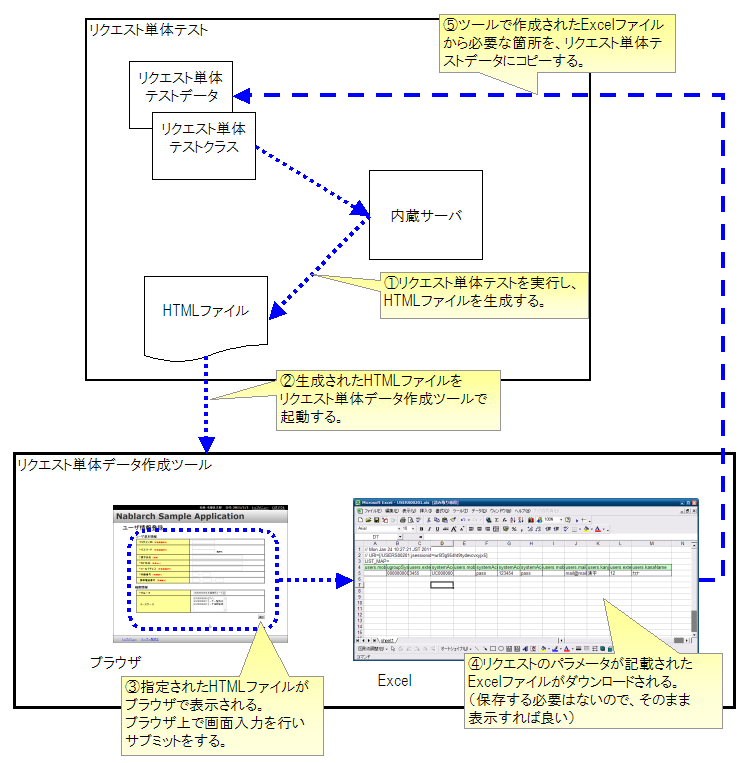
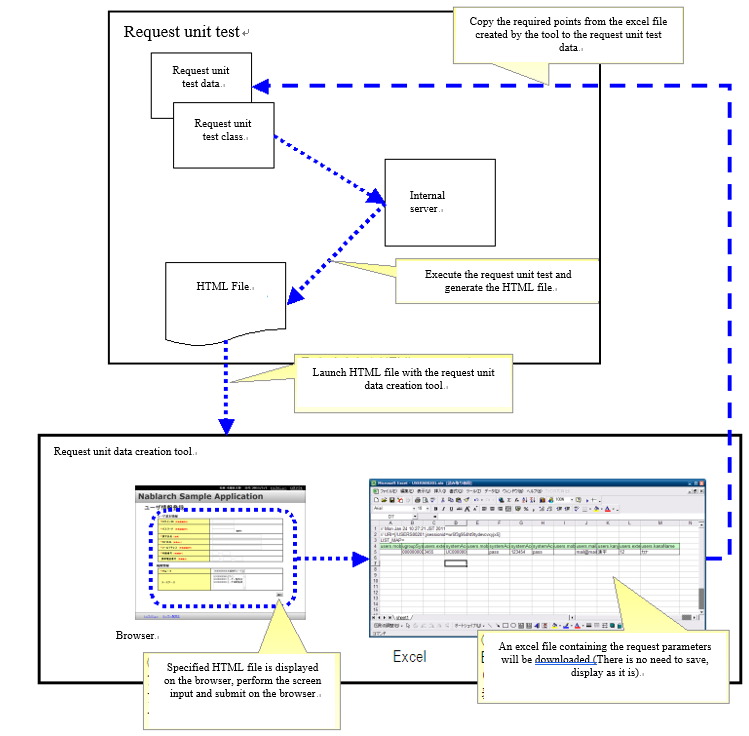
01_HttpDumpToolを英訳

Changed region(s): [[0.0, 0.0, 1.0, 1.0], [0.3997, 0.2188, 0.4612, 0.25]]

diff --git a/en/development_tools/testing_framework/guide/development_guide/08_TestTools/01_HttpDumpTool/01_HttpDumpTool.rst b/en/development_tools/testing_framework/guide/development_guide/08_TestTools/01_HttpDumpTool/01_HttpDumpTool.rst
@@ -1,93 +1,83 @@
 .. _`http_dump_tool`:
 
 ======================================
-リクエスト単体データ作成ツール
+Request Unit Data Creation Tool
 ======================================
 
-概要
-====
-
-リクエスト単体テスト(ウェブアプリケーション)では、HTMLからのリクエストパラメータにあるキーと値をテストデータとして作成する必要がある\ [*]_ 。
-このリクエストパラメータ作成を人手で実施すると、リクエストパラメータ名（form内のname属性）を\
-写し間違える恐れがある。特に、登録画面などパラメータ数が多い画面ではその可能性が高くなる。
-
-このような人手によるミスを解消するため、リクエスト単体テストで生成されたHTMLを使用して、\
-次画面へのリクエストパラメータを作成できるツールを提供する。
-
-
- .. [*]
-  リクエストパラメータのテストデータ記述方法については、\ :doc:`../../05_UnitTestGuide/02_RequestUnitTest/index`\ （特に「\  :ref:`request_test_req_params`\ 」の項 ）を参照
-
-
-
-特徴
-====
-
-本ツールでは、リクエスト単体テストで生成されたHTMLをブラウザで操作することで、
-次画面へのリクエストパラメータをExcel形式で取得できるようになっている。
-ウェブアプリケーションを操作するような感覚で直感的にテストデータが作成できる。
-
-
-使用方法
+Summary
 ========
 
-下記の図に沿って、本ツールの使用方法を説明する。
+The keys and values in the request parameters from HTML are required to be created as test data for the request unit test (web application). \ [*]_ 。
+If this request parameter is created manually, the name of the request parameter (name attribute in the form) may be copied incorrectly. 
+This possibility is more likely in screens with many parameters such as a registration screen.
+
+To eliminate such manual errors, a tool that can create request parameters for the next screen using HTML generated by the request unit test is provided.
+
+ .. [*]
+  For information on how to write request parameter test data, see \ :doc:`../../05_UnitTestGuide/02_RequestUnitTest/index`\（Especially, \  :ref:`request_test_req_params`\）\.
+
+
+
+Features
+==========
+
+The tool can be used to acquire the request parameters for the next screen in Excel format 
+by operating the HTML generated by the request unit test with a browser. 
+Test data can be created intuitively as if operating on a web application.
+
+
+How to Use
+==============
+
+How to use the tool is explained in reference to the following figure.
 
 
 .. image:: ./_image/requestDumpToolAbstract.png
    :scale: 80
 
-前提条件
+Prerequisites
 --------------------
 
-* 開発環境構築ガイドに従って開発環境を構築済みであること。
-* :doc:`02_SetUpHttpDumpTool`\ の\ :ref:`http_dump_tool_prerequisite`\ 参照
+* The development environment must have been built according to the development environment build guide.
+* See \ :ref:`http_dump_tool_prerequisite`\  of :doc:`02_SetUpHttpDumpTool`\.
 
+HTML generation for input
+------------------------------
 
-入力となるHTML生成
---------------------
+Execute the request unit test and generate a HTML file.
 
-リクエスト単体テストを実行し、HTMLファイルを生成する。
+Only the data for the request unit test of the initial screen display needs to be prepared manually. 
+Since most initial screen display requests (for example, a simple screen transition from a menu) do not include a request parameter, 
+usually an empty request parameter is required to be created.
 
-
-初期画面表示のリクエスト単体テスト用データだけは、手動で用意する必要がある。
-初期画面表示リクエスト（例えば、メニューからの単純な画面遷移）には
-リクエストパラメータが含まれていないことがほとんどであるので、
-通常は空のリクエストパラメータを作成すればよい。
-
-
-
-
-ツール起動
+Tool launch
 ------------
 
-Eclipse上からHTMLファイルを右クリックし、ツールを起動する。\
-（\ :ref:`howToExecuteFromEclipse` を参照）
-
+Right click on the HTML file from Eclipse and launch the tool. 
+See (\ :ref:`howToExecuteFromEclipse` )
 
 .. tip::
 
- Windows上で本ツールを起動するとコマンドプロンプトが現れるが、これはツール内部で使用される内蔵サーバのプロセスである。本ツールを使用する間はこのコマンドプロンプトは実行したままにしておくとよい。ツール起動時に、既にサーバが起動されている場合はサーバ起動がスキップされるので、２回目以降のツール起動が速くなる。誤ってこのコマンドプロンプトを落としてしまっても、次回のツール起動時に自動的に起動されるので問題はない。
+ When this tool is launched on Windows, a command prompt appears, which is a process of the internal server used within the tool.Keep the command prompt running while using this tool.While launching the tool if the server is already been started then the server launch is skipped, hence the second and subsequent tool starts are faster.If the command prompt is accidentally closed, it will automatically start when the tool is launched the next time.
 
 
-
-データ入力
+Data entry
 ------------
-HTMLファイルがブラウザで起動されるので、ブラウザ上で画面入力を行いサブミットを実行する。
+Since the HTML file is launched in the browser, enter data on the browser screen and execute submit.
 
 
-Excelダウンロード
+Excel download
 -------------------
 
-サブミットで発生したHTTPリクエストがExcelファイルに記載された状態で
-ダウンロードできる。Excelファイルをローカル上に保存する必要はないので、
-ブラウザから直接ExcelやOpenOfficeで起動すればよい。
+The HTTP request generated by the submit can be downloaded as an Excel file. 
+Since the excel file is not required to be saved locally, 
+it can be launched in Excel or OpenOffice directly from the browser.
 
 
-データ編集
-------------
+Data compilation
+--------------------
 
-ダウンロードしたExcelファイルに、HTTPリクエストパラメータのデータが記載されている。
-そのデータをリクエスト単体テストのテストデータにコピーする。
+The downloaded Excel file contains the data for the HTTP request parameters. 
+Copy the data to the test data of the request unit test.
 
 

diff --git a/en/development_tools/testing_framework/guide/development_guide/08_TestTools/01_HttpDumpTool/02_SetUpHttpDumpTool.rst b/en/development_tools/testing_framework/guide/development_guide/08_TestTools/01_HttpDumpTool/02_SetUpHttpDumpTool.rst
@@ -1,75 +1,75 @@
-=================================================
-リクエスト単体データ作成ツール インストールガイド
-=================================================
+========================================================
+Request Unit Data Creation Tool Installation Guide
+========================================================
 
-:doc:`index`\ のインストール方法について説明する。
+This section describes how to install the :doc:`index`\.
 
 .. _http_dump_tool_prerequisite:
 
-前提事項
-========
+Prerequisites
+================
 
-本ツールを使用する際、以下の前提事項を満たす必要がある。
+The following prerequisites must be met to use this tool.
 
-* javaコマンドがパスに含まれていること
-* htmlファイルがブラウザに関連付けされていること
-* ブラウザのプロキシ設定で、localhostが除外されていること
+* Java command must be included in the path.
+* HTML file must be associated with the browser.
+* Browser proxy setting must exclude localhost.
 
 
-提供方法
-==================
+Method of provision
+=========================
 
-本ツールは、Nablarchのサンプルアプリケーションに同梱して提供する。
-本ツールのツール構成を下記に示す。
+This tool is provided in a package along with Nablarch sample application. 
+The tool configuration of this tool is shown below.
 
  ========================================== ====================================================================================
- ファイル名                                 説明
+ File name                                  Description
  ========================================== ====================================================================================
- httpDump.bat                               | 起動バッチファイル（Windows用）
- nablarch-tfw-X.X.jar                       | Nablarch Testing Framework のJARファイル（X.Xの部分はバージョン番号）
- poi-X.X.jar                                | Apache POI のJARファイル（X.Xの部分はバージョン番号など）
- jetty.jar                                  | Jetty Server のJARファイル
- jetty-util.jar                             | Jetty Utilities のJARファイル
- servlet-api.jar                            | Servlet Specification 2.5 API のJARファイル
+ httpDump.bat                               | Startup batch file (for Windows)
+ nablarch-tfw-X.X.jar                       | JAR files of Nablarch Testing Framework (X.X part is the version number)
+ poi-X.X.jar                                | JAR files of Apache POI (X.X part is the version number)
+ jetty.jar                                  | JAR files of Jetty Server
+ jetty-util.jar                             | JAR files of Jetty Utilities
+ servlet-api.jar                            | JAR file of Servlet Specification 2.5 API
  ========================================== ====================================================================================
 
-各JARファイルへのクラスパスが設定されたhttpDump.batがサンプルアプリケーションの下記パスに配置されている。
+The HttpDump.bat file with the class path configuration to each JAR file is placed in the following path of the sample application.
 
  .. code-block:: bash
 
   /test/tool/httpDump.bat
 
-Eclipseとの連携
-===============
+Integration with Eclipse
+==============================
 
-以下の設定をすることでEclipseから本ツールを起動することができる。
+This tool can be launched from Eclipse with the following settings.
 
 
-設定画面起動
-------------
+Configuration Screen Startup
+---------------------------------
 
-ツールバーから、ウィンドウ(Window)→設定(Prefernce)を選択する。
-左側のペインから一般(General)→エディタ(Editors)→ファイルの関連付け(File Associations)
-を選択、右側のペインから*.htmlを選択し、追加(Add)ボタンを押下する。
+From the toolbar, select Window → Preference. 
+Select General → Editors → File Associations from the left pane, 
+select * .html from the right pane and click the Add button.
 
 .. image:: ./_image/01_Eclipse_Preference.png
    :scale: 100
 
  
-外部プログラム選択
-------------------
+External program selection
+--------------------------------
 
-ラジオボタンから外部プログラム(External program)を選択し、参照(Browse)ボタンを押下する。
+Select External Program from the radio button and click the Browse button.
 
 .. image:: ./_image/02_Eclipse_EditorSelection.png
    :scale: 100
 
 
-起動用バッチファイル（シェルスクリプト）選択
---------------------------------------------
+Select batch file (shell script) for startup
+-----------------------------------------------
 
-Windowsの場合はバッチファイル(httpDump.bat)を、
-Linuxの場合はシェルスクリプト(httpDump.sh)を選択する。
+Select the batch file (httpDump.bat) for Windows, 
+and the shell script (httpDump.sh) for Linux.
 
 .. image:: ./_image/03_Eclipse_OpenFile.png
    :scale: 100
@@ -77,11 +77,10 @@ Linuxの場合はシェルスクリプト(httpDump.sh)を選択する。
 
 .. _howToExecuteFromEclipse:
 
-HTMLファイルからの起動方法
---------------------------
+How from launch from HTML file
+----------------------------------
 
-Eclipseのパッケージエクスプローラ等からHTMLファイルを右クリックし、
-httpDumpで開くことでツールを起動できる。
+You can start the tool by right-clicking the HTML file from Package Explorer of Eclipse and opening the file with httpDump.
 
 .. image:: ./_image/04_Eclipse_OpenWith.png
    :scale: 100

diff --git a/en/development_tools/testing_framework/guide/development_guide/08_TestTools/01_HttpDumpTool/index.rst b/en/development_tools/testing_framework/guide/development_guide/08_TestTools/01_HttpDumpTool/index.rst
@@ -1,6 +1,6 @@
-===============================
- リクエスト単体データ作成ツール
-===============================
+=================================
+ Request Unit Data Creation Tool
+=================================
 
 .. toctree::
    :maxdepth: 1
